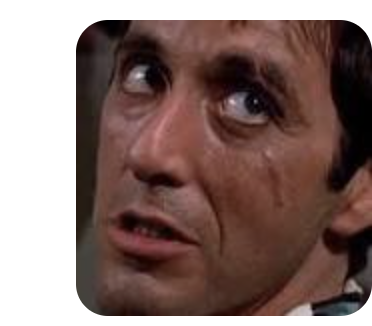
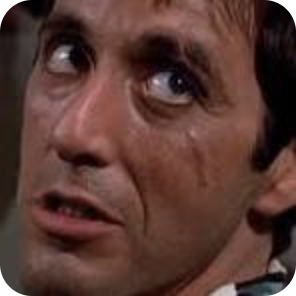
Раскадровка части 2: чистка от нейрослопа, Иван только фото

diff --git a/cheloveki-chast2-raskadrovka/lib.js b/cheloveki-chast2-raskadrovka/lib.js
@@ -18,7 +18,7 @@ const manD=(x,y,s)=>`M${R(x-30*s)},${R(y)}V${R(y-12*s)}A${R(30*s)},${R(30*s)} 0 
 function man(x,y,s,f=0,col=C.fux,o={}){const d=manD(x,y,s);
  if(o.dead)return `<path d="${d}" fill="rgba(138,128,148,.28)" stroke="${C.gry}" stroke-width="2.5" stroke-dasharray="7 7"/>`;
  let r='';
- if(f>=1)r+=G(x,y-36*s,74*s,col===C.fux||col===C.mal?'gp':'gw',.9)+`<path d="${d}" fill="${col}"/>`;
+ if(f>=1)r+=`<path d="${d}" fill="${col}"/>`;
  else if(f>0){const id='c'+(uid++);r+=`<clipPath id="${id}"><rect x="${R(x-32*s)}" y="${R(y-82*s*f)}" width="${R(64*s)}" height="${R(82*s*f+2)}"/></clipPath><path d="${d}" fill="${col}" clip-path="url(#${id})"/>`}
  return r+`<path d="${d}" fill="none" stroke="${o.st||'rgba(255,194,224,.65)'}" stroke-width="2"${o.dash?' stroke-dasharray="6 6"':''}/>`}
 /* Дед Мороз: красная шапка с белой меховой опушкой и помпоном, борода, усы. st: on, off, half */
@@ -53,20 +53,20 @@ function cat(x,y,s,col=C.fux,eye=C.wht){return `<g transform="translate(${x},${y
 /* мешок, из которого выглядывает кот */
 function sack(x,y,s,withCat=1){return `<g transform="translate(${x},${y}) scale(${s})">${withCat?`<g transform="translate(0,-118)"><circle cx="0" cy="-30" r="30" fill="${C.fux}"/><path d="M-28,-42L-24,-78L-5,-54ZM28,-42L24,-78L5,-54Z" fill="${C.fux}"/><ellipse cx="-11" cy="-32" rx="5" ry="8" fill="#fff"/><ellipse cx="11" cy="-32" rx="5" ry="8" fill="#fff"/></g>`:''}<path d="M-46,-130Q-120,-60 -92,0Q0,22 92,0Q120,-60 46,-130Q0,-112 -46,-130Z" fill="rgba(40,30,46,.95)" stroke="${C.gry}" stroke-width="4"/><path d="M-52,-134Q0,-112 52,-134" fill="none" stroke="${C.pink}" stroke-width="5" stroke-linecap="round"/><text x="0" y="-52" font-size="70" class="th" fill="${C.gry}" text-anchor="middle" dominant-baseline="central">?</text></g>`}
 /* шар с логотипом (логотип только картинкой) */
-function orb(x,y,r,rings=1){let s=G(x,y,r*2.8,'gp',.9);if(rings)for(let i=0;i<3;i++)s+=`<ellipse cx="${x}" cy="${y}" rx="${R(r*1.48+i*r*.22)}" ry="${R(r*.5+i*r*.12)}" transform="rotate(${[-18,24,62][i]} ${x} ${y})" fill="none" stroke="${i?'rgba(255,46,147,.55)':'rgba(255,194,224,.9)'}" stroke-width="3"/>`;
+function orb(x,y,r,rings=1){let s='';if(0)for(let i=0;i<3;i++)s+=`<ellipse cx="${x}" cy="${y}" rx="${R(r*1.48+i*r*.22)}" ry="${R(r*.5+i*r*.12)}" transform="rotate(${[-18,24,62][i]} ${x} ${y})" fill="none" stroke="${i?'rgba(255,46,147,.55)':'rgba(255,194,224,.9)'}" stroke-width="3"/>`;
  return s+`<circle cx="${x}" cy="${y}" r="${r}" fill="#fff"/><image href="logo-mark.webp" x="${R(x-r*.8)}" y="${R(y-r*.8*240/613)}" width="${R(r*1.6)}" height="${R(r*1.6*240/613)}"/>`}
-function phone(cx,cy,w,h,inner,rot=-1.5){return `<g transform="translate(${cx},${cy}) rotate(${rot})">${G(0,0,h*.72,'gp',.75)}${dark(-w/2,-h/2,w,h,52,.86)}${glass(-w/2,-h/2,w,h,52)}<rect x="-46" y="${-h/2+14}" width="92" height="10" rx="5" fill="rgba(255,194,224,.35)"/>${inner}</g>`}
-function btn(cx,cy,w,h,lines,z,o={}){const n=lines.length;return G(cx,cy,w*.62,'gp',o.dim?.25:.7)+`<rect x="${cx-w/2}" y="${cy-h/2}" width="${w}" height="${h}" rx="${h/2}" fill="url(#bt)"${o.dim?' opacity=".55"':''}/>`+lines.map((l,i)=>T(l,cx,cy+(i-(n-1)/2)*z*1.3,z,{a:'middle',max:w-70})).join('')}
+function phone(cx,cy,w,h,inner,rot=-1.5){return `<g transform="translate(${cx},${cy}) rotate(${rot})">${dark(-w/2,-h/2,w,h,52,.86)}${glass(-w/2,-h/2,w,h,52)}<rect x="-46" y="${-h/2+14}" width="92" height="10" rx="5" fill="rgba(255,194,224,.35)"/>${inner}</g>`}
+function btn(cx,cy,w,h,lines,z,o={}){const n=lines.length;return `<rect x="${cx-w/2}" y="${cy-h/2}" width="${w}" height="${h}" rx="${h/2}" fill="url(#bt)"${o.dim?' opacity=".55"':''}/>`+lines.map((l,i)=>T(l,cx,cy+(i-(n-1)/2)*z*1.3,z,{a:'middle',max:w-70})).join('')}
 function chip(x,y,w,a,b,hot=0,z=32){return glass(x,y-38,w,76,22,hot)+T(a,x+26,y+1,z,{b:1,max:b?w-200:w-52})+(b?T(b,x+w-26,y+1,z,{a:'end',c:C.pink}):'')}
 function bar(x,y,w,h,f){return `<rect x="${x}" y="${y}" width="${w}" height="${h}" rx="${h/2}" fill="rgba(255,255,255,.12)"/>`+(f>0?`<rect x="${x}" y="${y}" width="${R(Math.max(h,w*f))}" height="${h}" rx="${h/2}" fill="url(#br)"/>`+G(x+w*f,y+h/2,h*1.3,'gw'):'')}
 function comet(x1,y1,x2,y2,lift,a=0,b=1,n=22){let s='';for(let i=0;i<=n;i++){const u=a+(b-a)*i/n,x=lerp(x1,x2,u),y=lerp(y1,y2,u)-Math.sin(u*Math.PI)*lift;s+=G(x,y,8+34*i/n,i===n?'gw':'gp',.35+.65*i/n)}return s}
-function check(x,y,r){return G(x,y,r*2,'gp',.8)+`<circle cx="${x}" cy="${y}" r="${r}" fill="${C.fux}"/><path d="M${R(x-r*.42)},${R(y+r*.04)}L${R(x-r*.1)},${R(y+r*.36)}L${R(x+r*.46)},${R(y-r*.3)}" fill="none" stroke="#fff" stroke-width="${R(r*.2)}" stroke-linecap="round" stroke-linejoin="round"/>`}
+function check(x,y,r){return `<circle cx="${x}" cy="${y}" r="${r}" fill="${C.fux}"/><path d="M${R(x-r*.42)},${R(y+r*.04)}L${R(x-r*.1)},${R(y+r*.36)}L${R(x+r*.46)},${R(y-r*.3)}" fill="none" stroke="#fff" stroke-width="${R(r*.2)}" stroke-linecap="round" stroke-linejoin="round"/>`}
 const cursor=(x,y)=>`<circle cx="${x}" cy="${y}" r="30" fill="rgba(255,255,255,.25)" stroke="#fff" stroke-width="5"/>`;
 const ripples=(x,y)=>[60,120,190].map((r,i)=>`<circle cx="${x}" cy="${y}" r="${r}" fill="none" stroke="rgba(255,194,224,${.8-i*.25})" stroke-width="${5-i*1.5}"/>`).join('');
 const dash=(d,col='rgba(255,194,224,.6)',w=2.5)=>`<path d="${d}" fill="none" stroke="${col}" stroke-width="${w}" stroke-dasharray="10 10" stroke-linecap="round"/>`;
 /* фон: тёмная глубина, звёзды-искры, пол в перспективе. dim: «как было раньше», серо */
 function bg(o={}){const r=rng(o.seed||2);let s=`<rect width="1600" height="900" fill="url(#${o.dim?'bgd':'bg'})"/>`;
- for(let i=0;i<(o.stars??60);i++)s+=G(r()*1600,r()*620,3+r()*7,o.dim?'gg':(r()>.5?'gp':'gw'),.8);
+ 
  let p='';for(let i=-14;i<=14;i++)p+=`M${800+i*2600},1100L${800+i*60},640`;for(let j=0;j<8;j++)p+=`M0,${R(640+260*Math.pow(j/7,2.1))}H1600`;
- return s+`<path d="${p}" stroke="${o.dim?'rgba(150,140,160,.16)':'rgba(255,46,147,.22)'}" stroke-width="1.5" fill="none"/>`}
+ void p;return s}
 const F=(inner,o)=>`<svg viewBox="0 0 1600 900" xmlns="http://www.w3.org/2000/svg" role="img">${bg(o)}${inner}</svg>`;

diff --git a/cheloveki-chast2-raskadrovka/index.html b/cheloveki-chast2-raskadrovka/index.html
@@ -48,7 +48,7 @@ main{padding:32px;max-width:1500px;margin:0 auto;display:flex;flex-direction:col
 .fr .lbl{font-size:15px;color:var(--accent);margin:0 0 4px}
 .fr .mv{font-size:17px;color:var(--muted);margin:14px 0 0;line-height:1.45}
 .fr .mv b{color:var(--text)}
-svg .th{font-family:Unbounded,sans-serif;font-weight:900}
+svg .th{font-family:"Golos Text",sans-serif;font-weight:700;letter-spacing:-.01em}
 svg .tb{font-family:"Golos Text",sans-serif;font-weight:700}
 .back{margin-top:-16px}
 #vt{width:250px;background:var(--bg);border:1px solid var(--line);border-radius:var(--r);z-index:60;font-size:16px}
@@ -62,18 +62,18 @@ svg .tb{font-family:"Golos Text",sans-serif;font-weight:700}
 @media (max-width:1000px){.fr{grid-template-columns:1fr}.top{padding:10px 16px}main{padding:16px}.vb{padding:12px}#vt{display:none}}
 </style></head><body>
 <svg width="0" height="0" style="position:absolute" aria-hidden="true"><defs>
-<radialGradient id="bg" cx="50%" cy="42%" r="75%"><stop offset="0" stop-color="#2a0a22"/><stop offset="1" stop-color="#0B0610"/></radialGradient>
-<radialGradient id="bgd" cx="50%" cy="42%" r="75%"><stop offset="0" stop-color="#211c27"/><stop offset="1" stop-color="#0a090c"/></radialGradient>
+<linearGradient id="bg"><stop offset="0" stop-color="#150B18"/><stop offset="1" stop-color="#150B18"/></linearGradient>
+<linearGradient id="bgd"><stop offset="0" stop-color="#17151A"/><stop offset="1" stop-color="#17151A"/></linearGradient>
 <radialGradient id="gp"><stop offset="0" stop-color="#fff"/><stop offset=".25" stop-color="#FF2E93" stop-opacity=".9"/><stop offset="1" stop-color="#FF2E93" stop-opacity="0"/></radialGradient>
 <radialGradient id="gw"><stop offset="0" stop-color="#fff"/><stop offset=".25" stop-color="#FFC2E0" stop-opacity=".8"/><stop offset="1" stop-color="#FFC2E0" stop-opacity="0"/></radialGradient>
 <radialGradient id="gg"><stop offset="0" stop-color="#cfc8d6"/><stop offset=".25" stop-color="#786e82" stop-opacity=".6"/><stop offset="1" stop-color="#786e82" stop-opacity="0"/></radialGradient>
-<linearGradient id="gl" x1="0" y1="0" x2="1" y2="1"><stop offset="0" stop-color="#fff" stop-opacity=".13"/><stop offset="1" stop-color="#FF2E93" stop-opacity=".07"/></linearGradient>
-<linearGradient id="glh" x1="0" y1="0" x2="1" y2="1"><stop offset="0" stop-color="#fff" stop-opacity=".34"/><stop offset="1" stop-color="#FF2E93" stop-opacity=".22"/></linearGradient>
-<linearGradient id="gs" x1="0" y1="0" x2="0" y2="1"><stop offset="0" stop-color="#FFC2E0" stop-opacity=".9"/><stop offset=".5" stop-color="#FF2E93" stop-opacity=".25"/><stop offset="1" stop-color="#FF2E93" stop-opacity=".8"/></linearGradient>
-<linearGradient id="bt"><stop offset="0" stop-color="#FF2E93"/><stop offset="1" stop-color="#D1105A"/></linearGradient>
-<linearGradient id="br"><stop offset="0" stop-color="#D1105A"/><stop offset="1" stop-color="#FF2E93"/></linearGradient>
-<linearGradient id="sp" x1="0" y1="0" x2="0" y2="1"><stop offset="0" stop-color="#fff" stop-opacity=".42"/><stop offset="1" stop-color="#FFC2E0" stop-opacity=".06"/></linearGradient>
-<filter id="tg" x="-20%" y="-50%" width="140%" height="200%"><feDropShadow dx="0" dy="0" stdDeviation="14" flood-color="#FF2E93" flood-opacity=".9"/></filter>
+<linearGradient id="gl"><stop offset="0" stop-color="#ffffff" stop-opacity="0.07"/><stop offset="1" stop-color="#ffffff" stop-opacity="0.07"/></linearGradient>
+<linearGradient id="glh"><stop offset="0" stop-color="#ffffff" stop-opacity="0.16"/><stop offset="1" stop-color="#ffffff" stop-opacity="0.16"/></linearGradient>
+<linearGradient id="gs"><stop offset="0" stop-color="#FFC2E0" stop-opacity="0.38"/><stop offset="1" stop-color="#FFC2E0" stop-opacity="0.38"/></linearGradient>
+<linearGradient id="bt"><stop offset="0" stop-color="#E0146A"/><stop offset="1" stop-color="#E0146A"/></linearGradient>
+<linearGradient id="br"><stop offset="0" stop-color="#E0146A"/><stop offset="1" stop-color="#E0146A"/></linearGradient>
+<linearGradient id="sp"><stop offset="0" stop-color="#ffffff" stop-opacity="0.14"/><stop offset="1" stop-color="#ffffff" stop-opacity="0.14"/></linearGradient>
+<filter id="tg" x="-20%" y="-50%" width="140%" height="200%"><feDropShadow dx="0" dy="0" stdDeviation="14" flood-color="#FF2E93" flood-opacity="0"/></filter>
 </defs></svg>
 <div class="top"><img src="logo-mark.webp" alt="Человеки"><h1>Раскадровка, часть 2</h1><nav id="nav"></nav></div>
 <main id="main">

diff --git a/cheloveki-chast2-raskadrovka/scenes1.js b/cheloveki-chast2-raskadrovka/scenes1.js
@@ -1,8 +1,8 @@
 /* Сцены 2, 3, 4 */
 const SCENES=[];
 /* ---------- общие детали ---------- */
-/* Иван: тело человечка + вырезанная голова из мема (ivan-golova.png) */
-function ivan(x,y,s,tag=1){const hw=78*s,hh=hw*326/372;return G(x,y-40*s,95*s,'gw',.55)+`<path d="M${R(x-30*s)},${R(y)}V${R(y-12*s)}A${R(30*s)},${R(30*s)} 0 0 1 ${R(x+30*s)},${R(y-12*s)}V${R(y)}Z" fill="#fff"/><image href="ivan-golova.png" x="${R(x-hw/2)}" y="${R(y-38*s-hh)}" width="${R(hw)}" height="${R(hh)}"/>`+(tag?glass(x-90,y+18,180,56,18)+T('Иван',x,y+47,28,{b:1,a:'middle'}):'')}
+/* Иван: только вырезанное фото из мема (ivan-golova.png) и подпись, без фигурки (Маша 16.11.2026) */
+function ivan(x,y,s,tag=1){const hw=118*s,hh=hw*296/296;return `<image href="ivan-golova.png" x="${R(x-hw/2)}" y="${R(y-hh)}" width="${R(hw)}" height="${R(hh)}"/>`+(tag?glass(x-135,y+18,270,56,18)+T('Менеджер Иван',x,y+47,26,{b:1,a:'middle',max:240}):'')}
 /* окно сделки в системе «Тони Старк» */
 function stark(x,y,w,h,o={}){const bw=w-80,by=y+h-80;
  let s=`<g${o.op?` opacity="${o.op}"`:''}>`+dark(x,y,w,h,28,.72)+glass(x,y,w,h,28);
